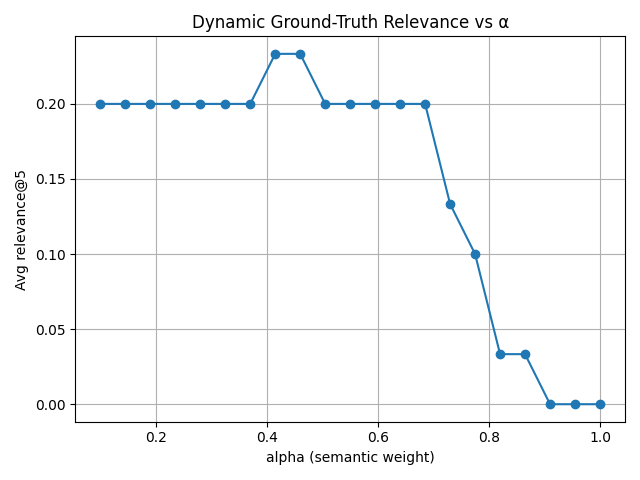
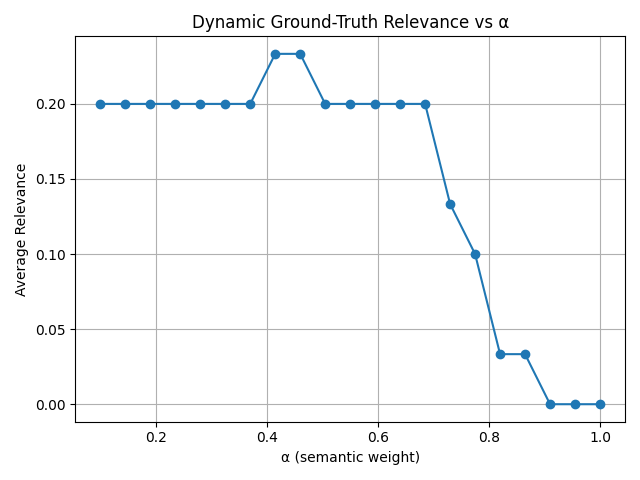
experiment with alpha search

Changed region(s): [[0.0, 0.3438, 0.0625, 0.625], [0.4062, 0.9375, 0.6875, 0.9688]]

diff --git a/frontend/index.html b/frontend/index.html
@@ -1,3 +1,6 @@
+<!-- NOT BEING USED -->
+
+
 <!DOCTYPE html>
 <html lang="en">
 

diff --git a/backend/optimize_alpha.py b/backend/optimize_alpha.py
@@ -73,8 +73,8 @@ def main():
         avg_rels.append(np.mean(rels))
 
     plt.plot(alphas, avg_rels, marker='o')
-    plt.xlabel('alpha (semantic weight)')
-    plt.ylabel(f'Avg relevance@{args.top_k}')
+    plt.xlabel('α (semantic weight)')
+    plt.ylabel(f'Average Relevance')
     plt.title('Dynamic Ground‐Truth Relevance vs α')
     plt.grid(True)
     plt.tight_layout()
